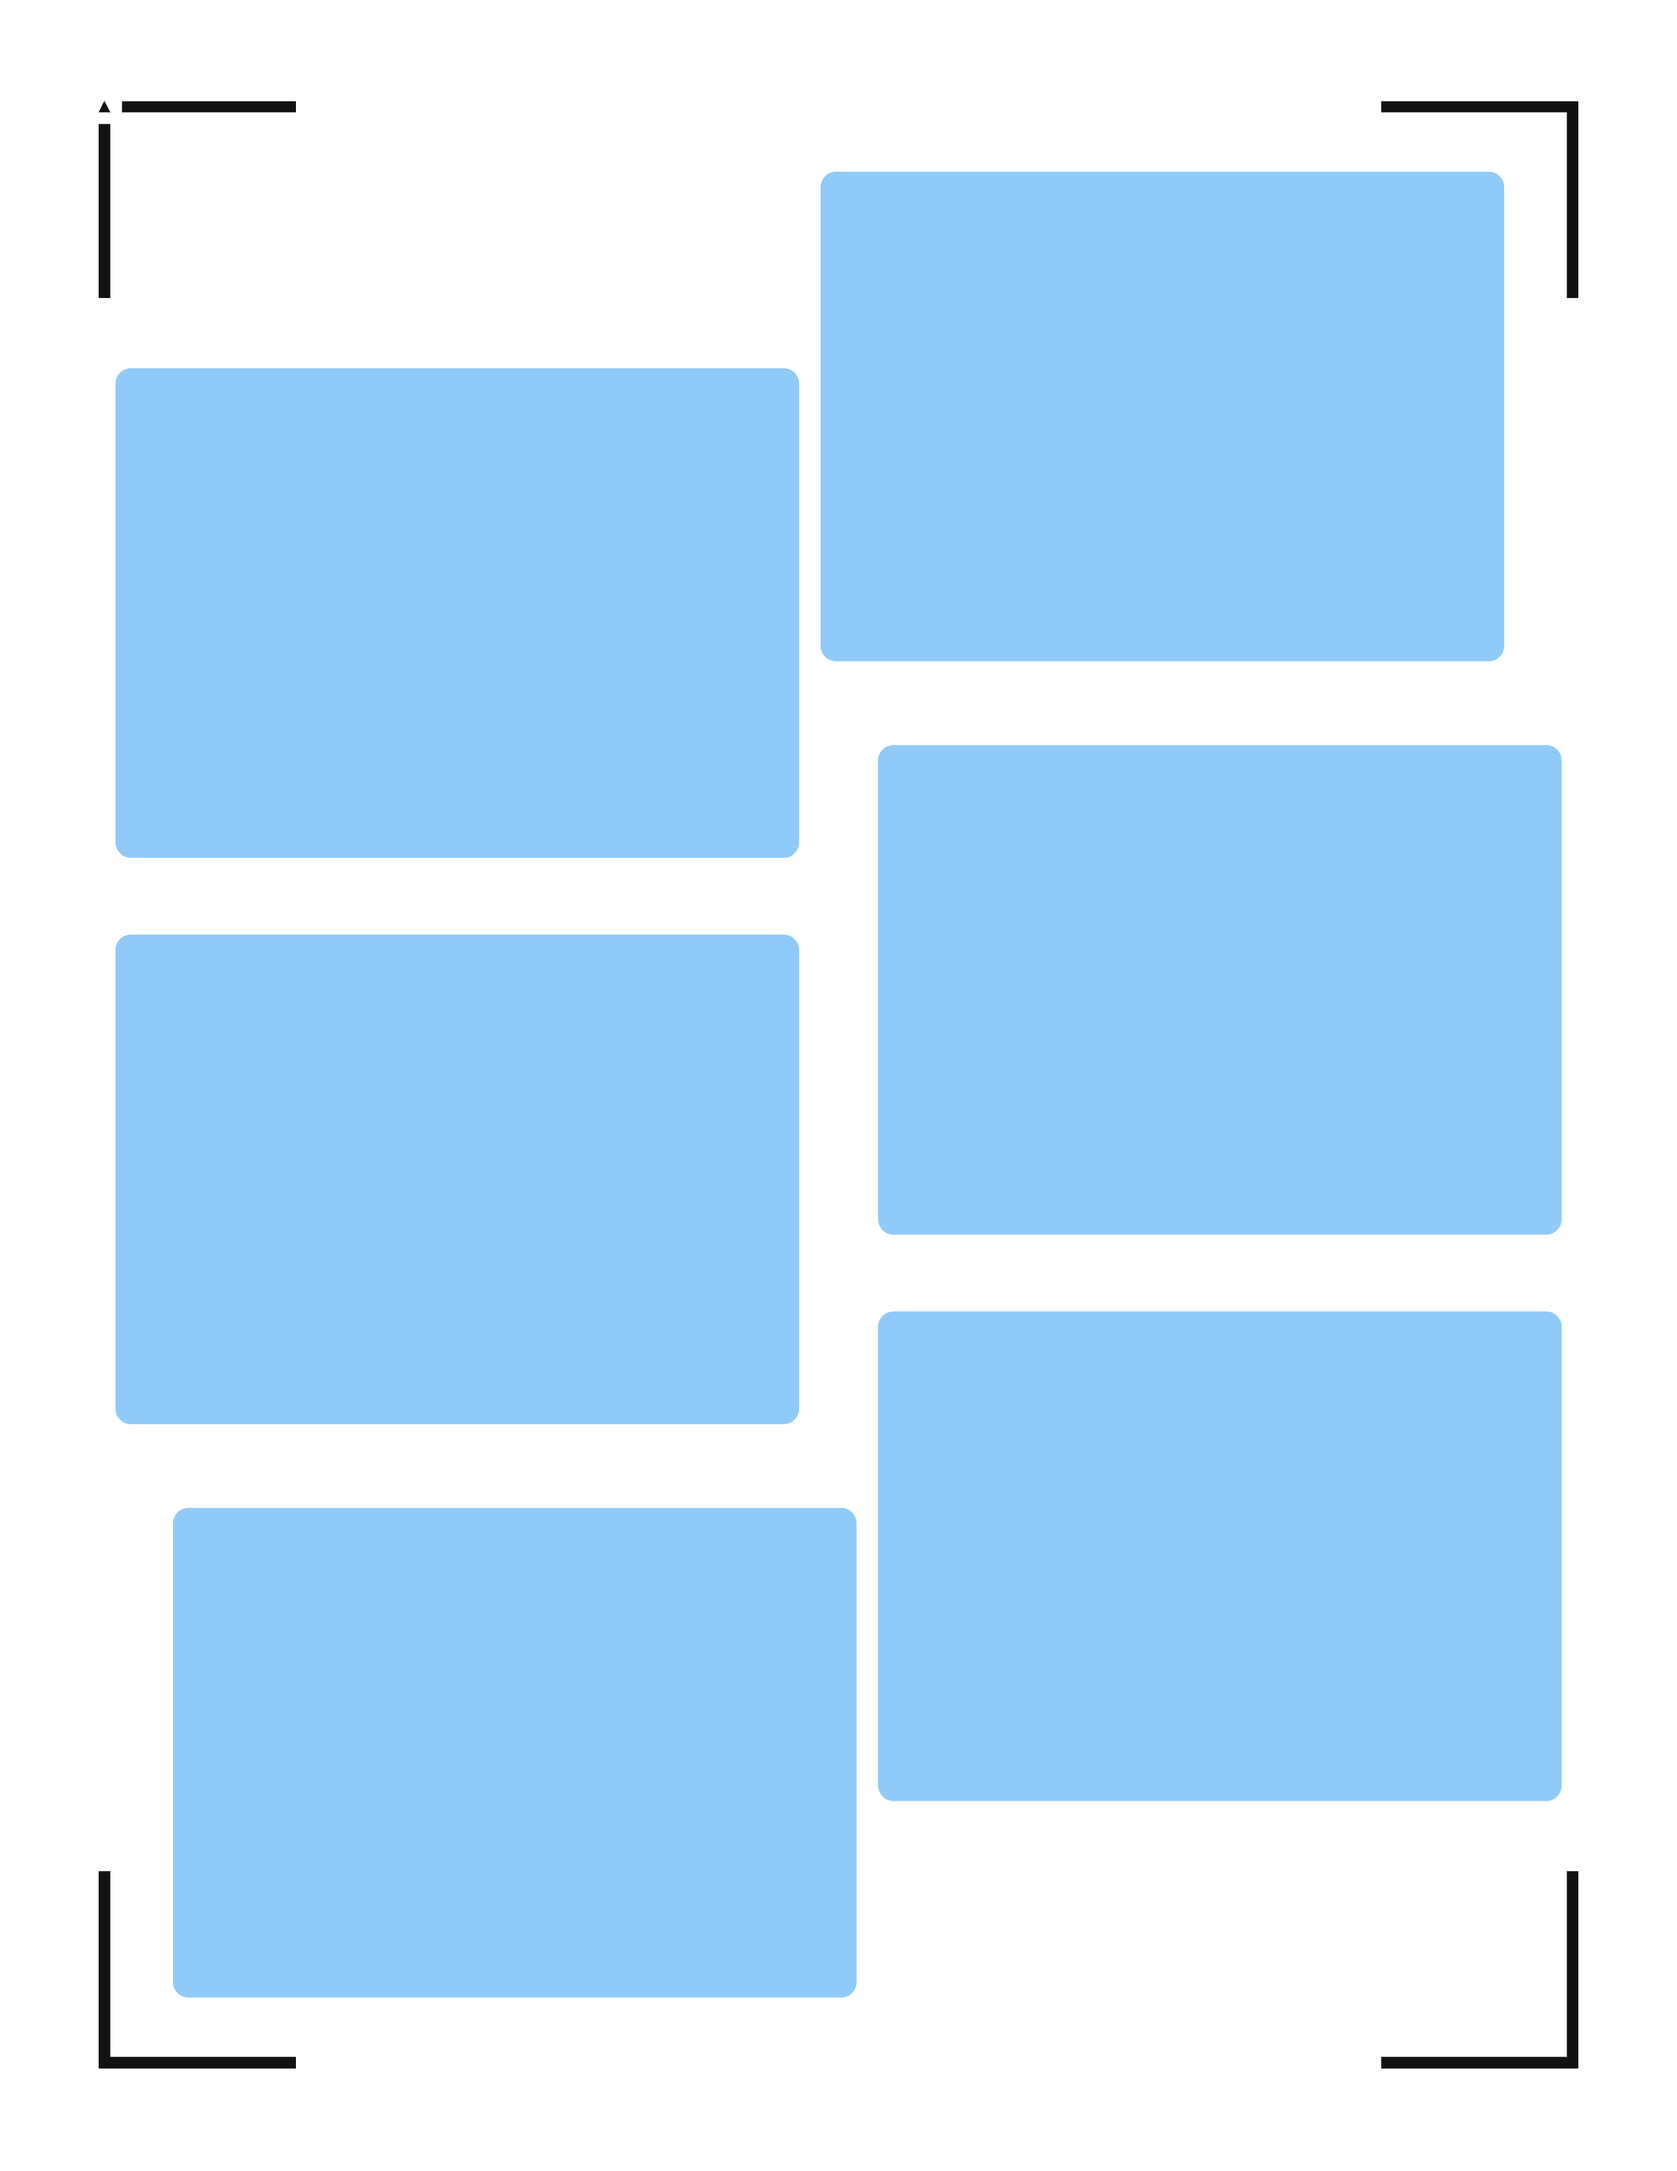
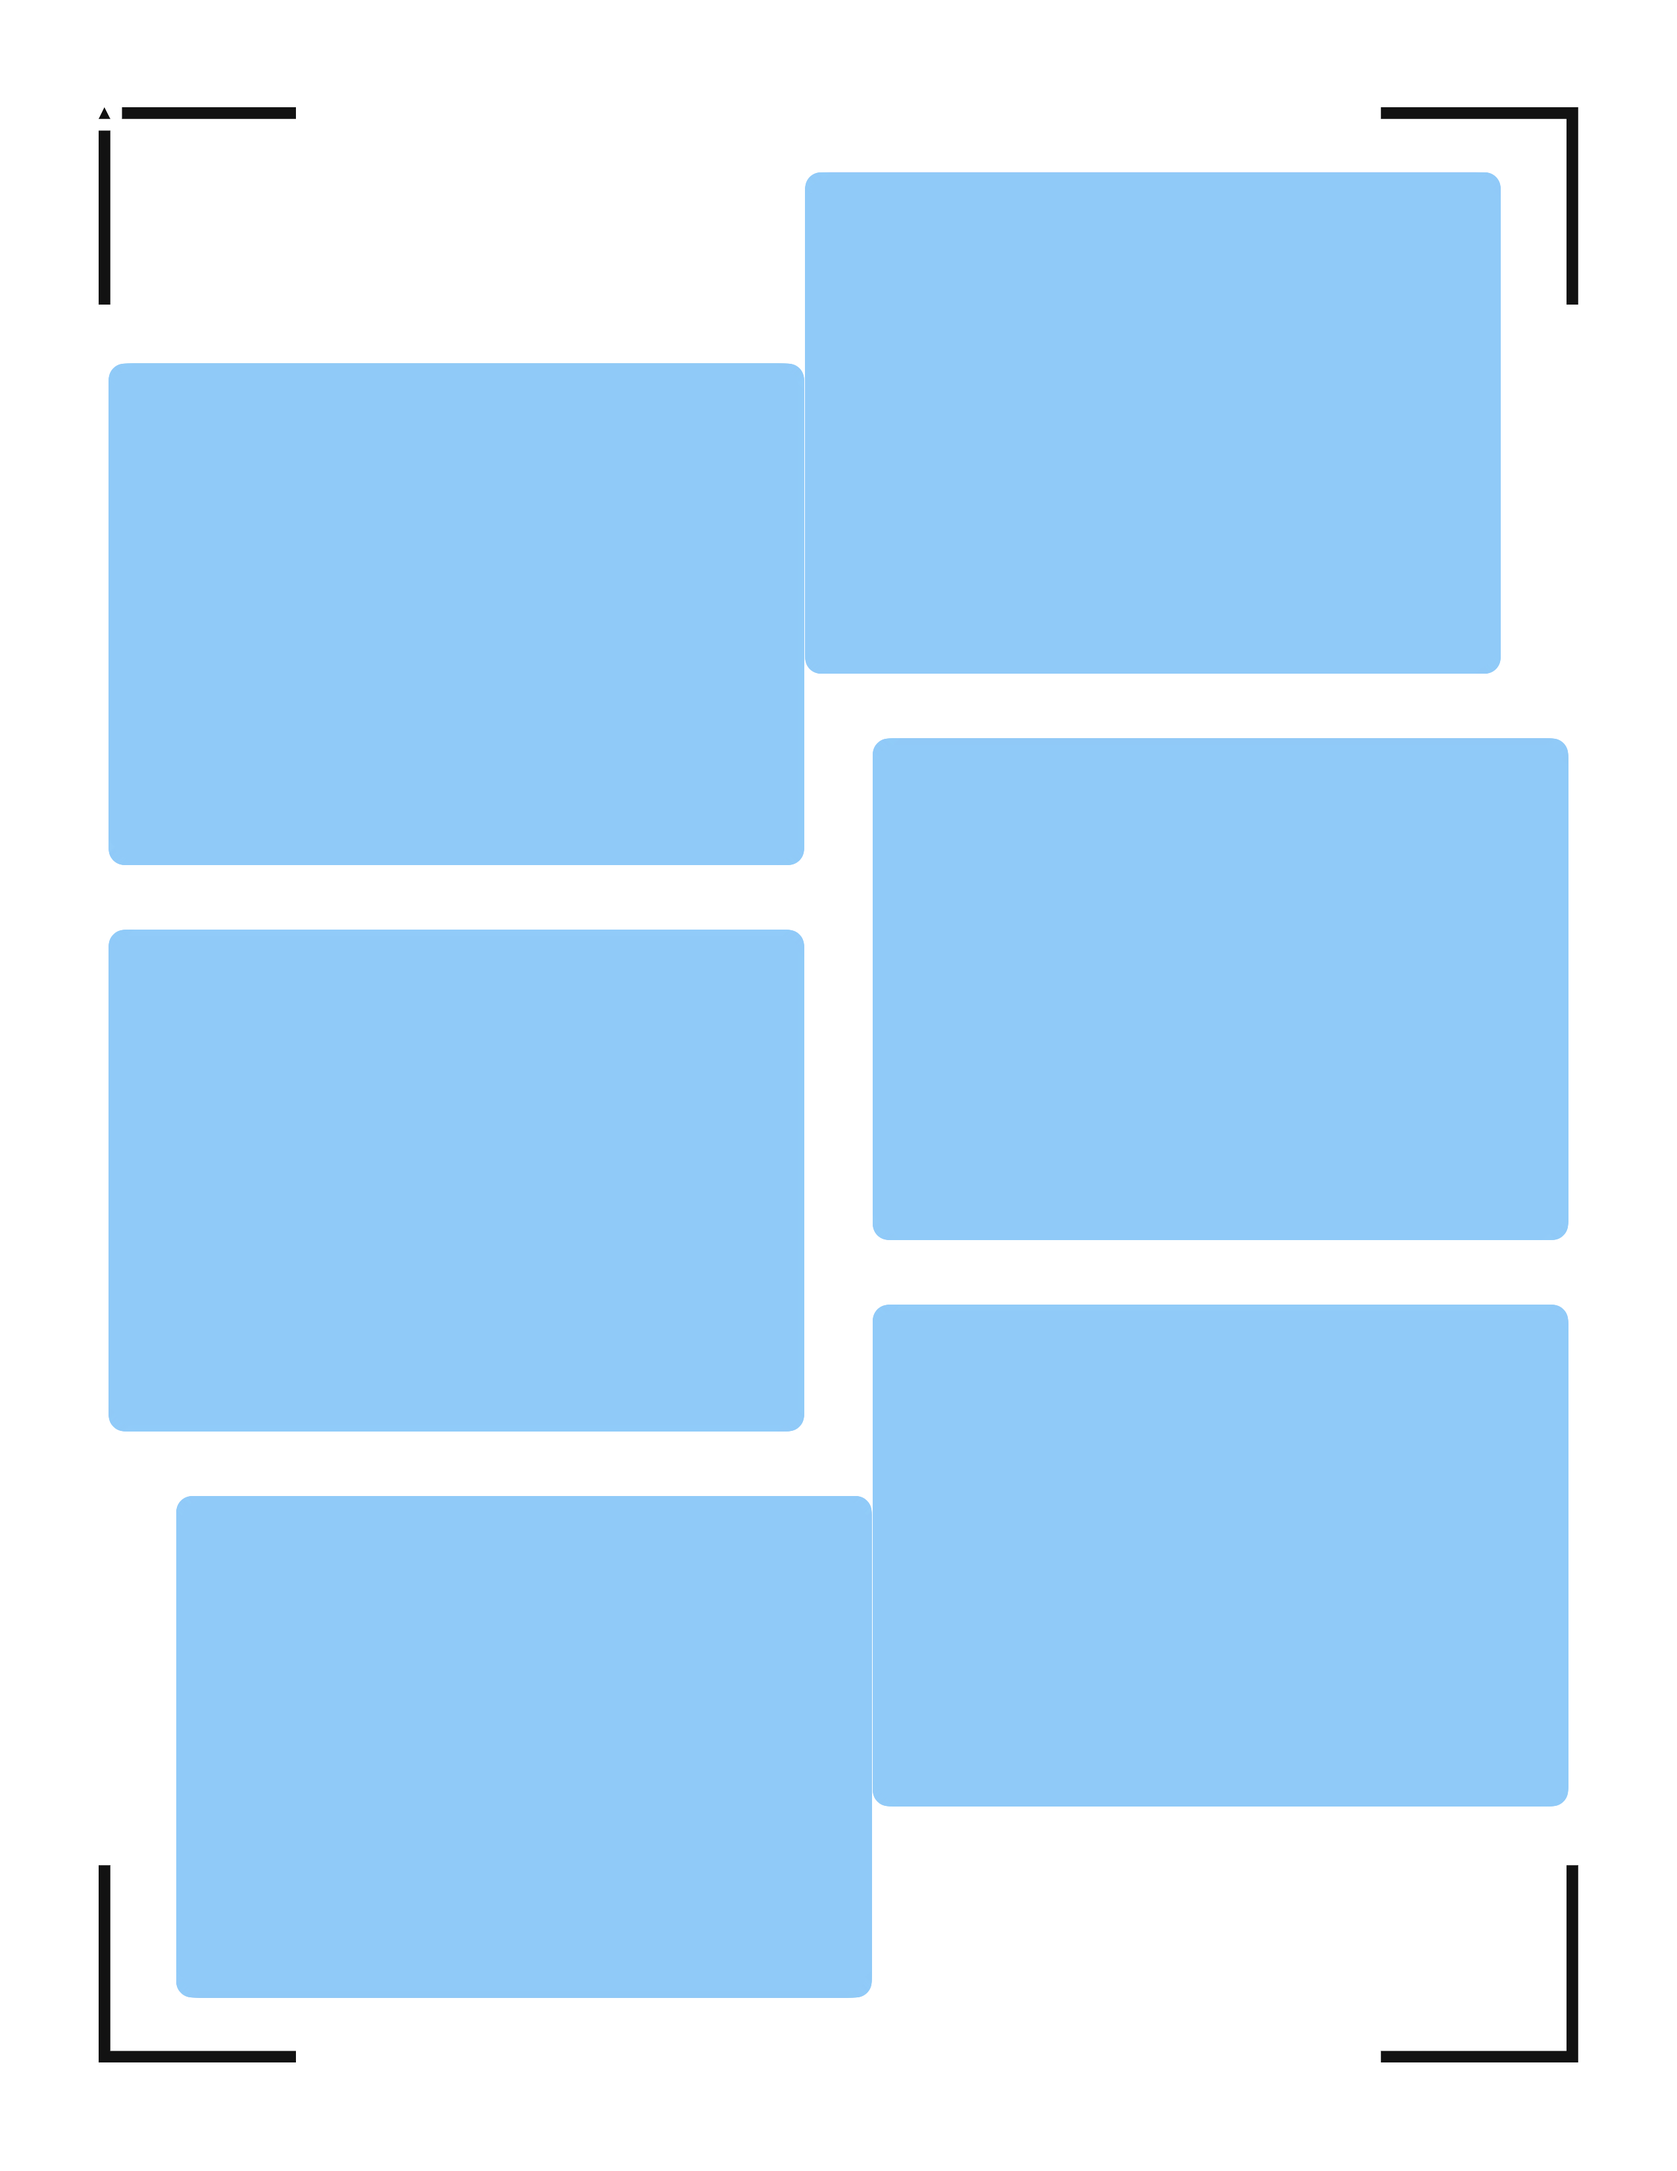
Updated Sizing + Card Cropper
Updating the python file and background image
Adding Card Crop Program to delete bleed from MPC Fill

diff --git a/CardCropper.py b/CardCropper.py
@@ -1,0 +1,58 @@
+import os
+import tkinter as tk
+from tkinter import filedialog, messagebox
+from PIL import Image
+import numpy as np
+
+def crop_card(image: Image.Image) -> Image.Image:
+    """Crop MTG card image by 9.5% width and 6.8% height (centered)."""
+    w, h = image.size
+    # compute crop margins
+    left = int(w * 0.095 / 2)
+    right = w - left
+    top = int(h * 0.068 / 2)
+    bottom = h - top
+    return image.crop((left, top, right, bottom))
+
+def process_files(filepaths):
+    if not filepaths:
+        messagebox.showwarning("No files", "No images selected.")
+        return
+    
+    out_dir = os.path.join(os.path.dirname(filepaths[0]), "cropped")
+    os.makedirs(out_dir, exist_ok=True)
+
+    for path in filepaths:
+        try:
+            img = Image.open(path)
+            cropped = crop_card(img)
+            base = os.path.basename(path)
+            out_path = os.path.join(out_dir, base)
+            cropped.save(out_path)
+        except Exception as e:
+            print(f"Failed to process {path}: {e}")
+
+    messagebox.showinfo("Done", f"Cropped images saved in:\n{out_dir}")
+
+def select_files():
+    filepaths = filedialog.askopenfilenames(
+        title="Select card images",
+        filetypes=[("Image Files", "*.png *.jpg *.jpeg *.bmp *.tiff")]
+    )
+    process_files(filepaths)
+
+def main():
+    root = tk.Tk()
+    root.title("MTG Card Cropper")
+    root.geometry("300x150")
+
+    lbl = tk.Label(root, text="Crop MTG card borders by 9.5% / 6.8%")
+    lbl.pack(pady=20)
+
+    btn = tk.Button(root, text="Select Images", command=select_files)
+    btn.pack(pady=10)
+
+    root.mainloop()
+
+if __name__ == "__main__":
+    main()

diff --git a/CardMaker_SixCards.py b/CardMaker_SixCards.py
@@ -19,22 +19,22 @@ def resource_path(relative_path: str) -> str:
 BACKGROUND_PATH = resource_path(BACKGROUND_FILENAME)
 # ============================================
 
-portraitX, portraitY = 744, 1040
-landscapeX, landscapeY = 1040, 744
+portraitX, portraitY = 763, 1058
+landscapeX, landscapeY = 1058, 763
 
 # Grid slots (6 max per page)
 slots = [
-    (175, 560,  175+landscapeX, 560+landscapeY),       # LeftTop
-    (175, 1421,  175+landscapeX, 1421+landscapeY),     # LeftMid
-    (263, 2292,  263+landscapeX, 2292+landscapeY),     # LeftBot
+    (165, 552,  165+landscapeX, 552+landscapeY),       # LeftTop
+    (165, 1412, 165+landscapeX, 1412+landscapeY),     # LeftMid
+    (268, 2274,  268+landscapeX, 2274+landscapeY),     # LeftBot
     
-    (1242, 261,  1242+landscapeX, 261+landscapeY),     # RightTop
-    (1335, 1132,  1335+landscapeX, 1132+landscapeY),   # RightMid
-    (1335, 1993,  1335+landscapeX, 1993+landscapeY)    # RightBot
+    (1224, 262,  1224+landscapeX, 262+landscapeY),     # RightTop
+    (1327, 1122,  1327+landscapeX, 1122+landscapeY),   # RightMid
+    (1327, 1983,  1327+landscapeX, 1983+landscapeY)    # RightBot
 ]
 
-# 1 mm bleed at 300 DPI ≈ 12 px
-BLEED_PX = 12
+# 0.5 mm bleed at 300 DPI ≈ 6 px
+BLEED_PX = 6
 
 
 # --- Helper: add bleed by extending outermost pixels ---
